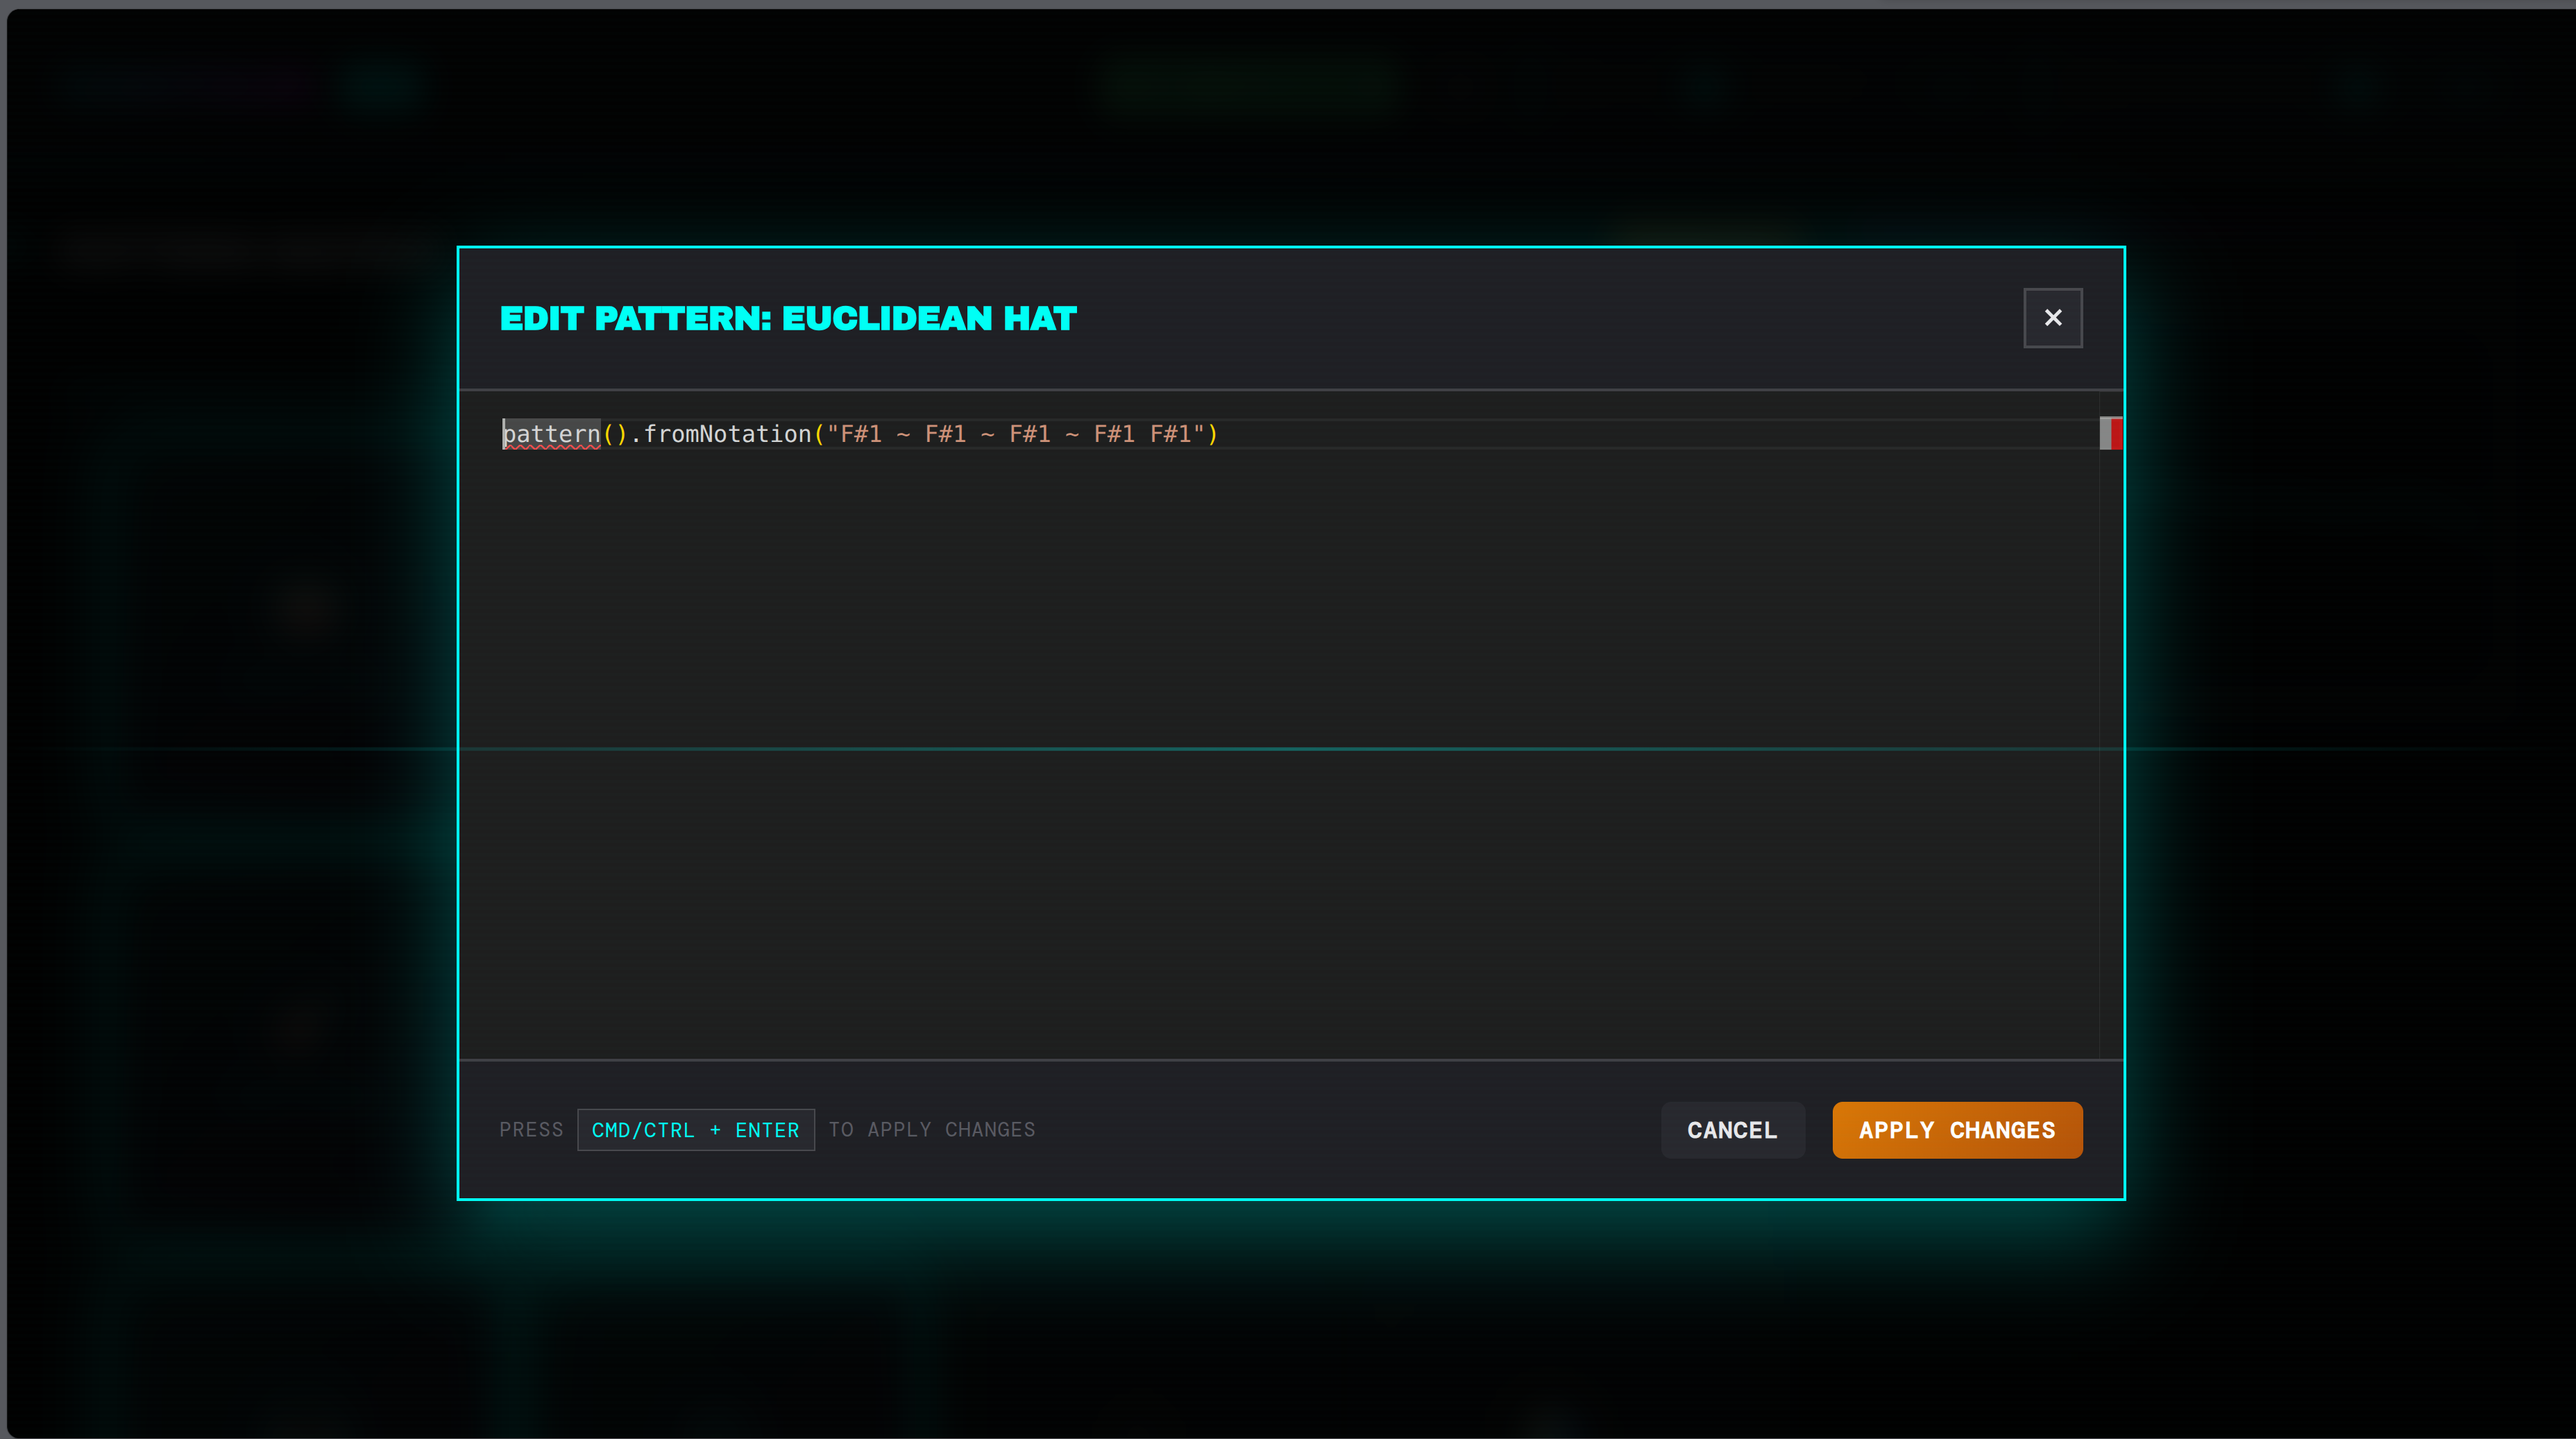
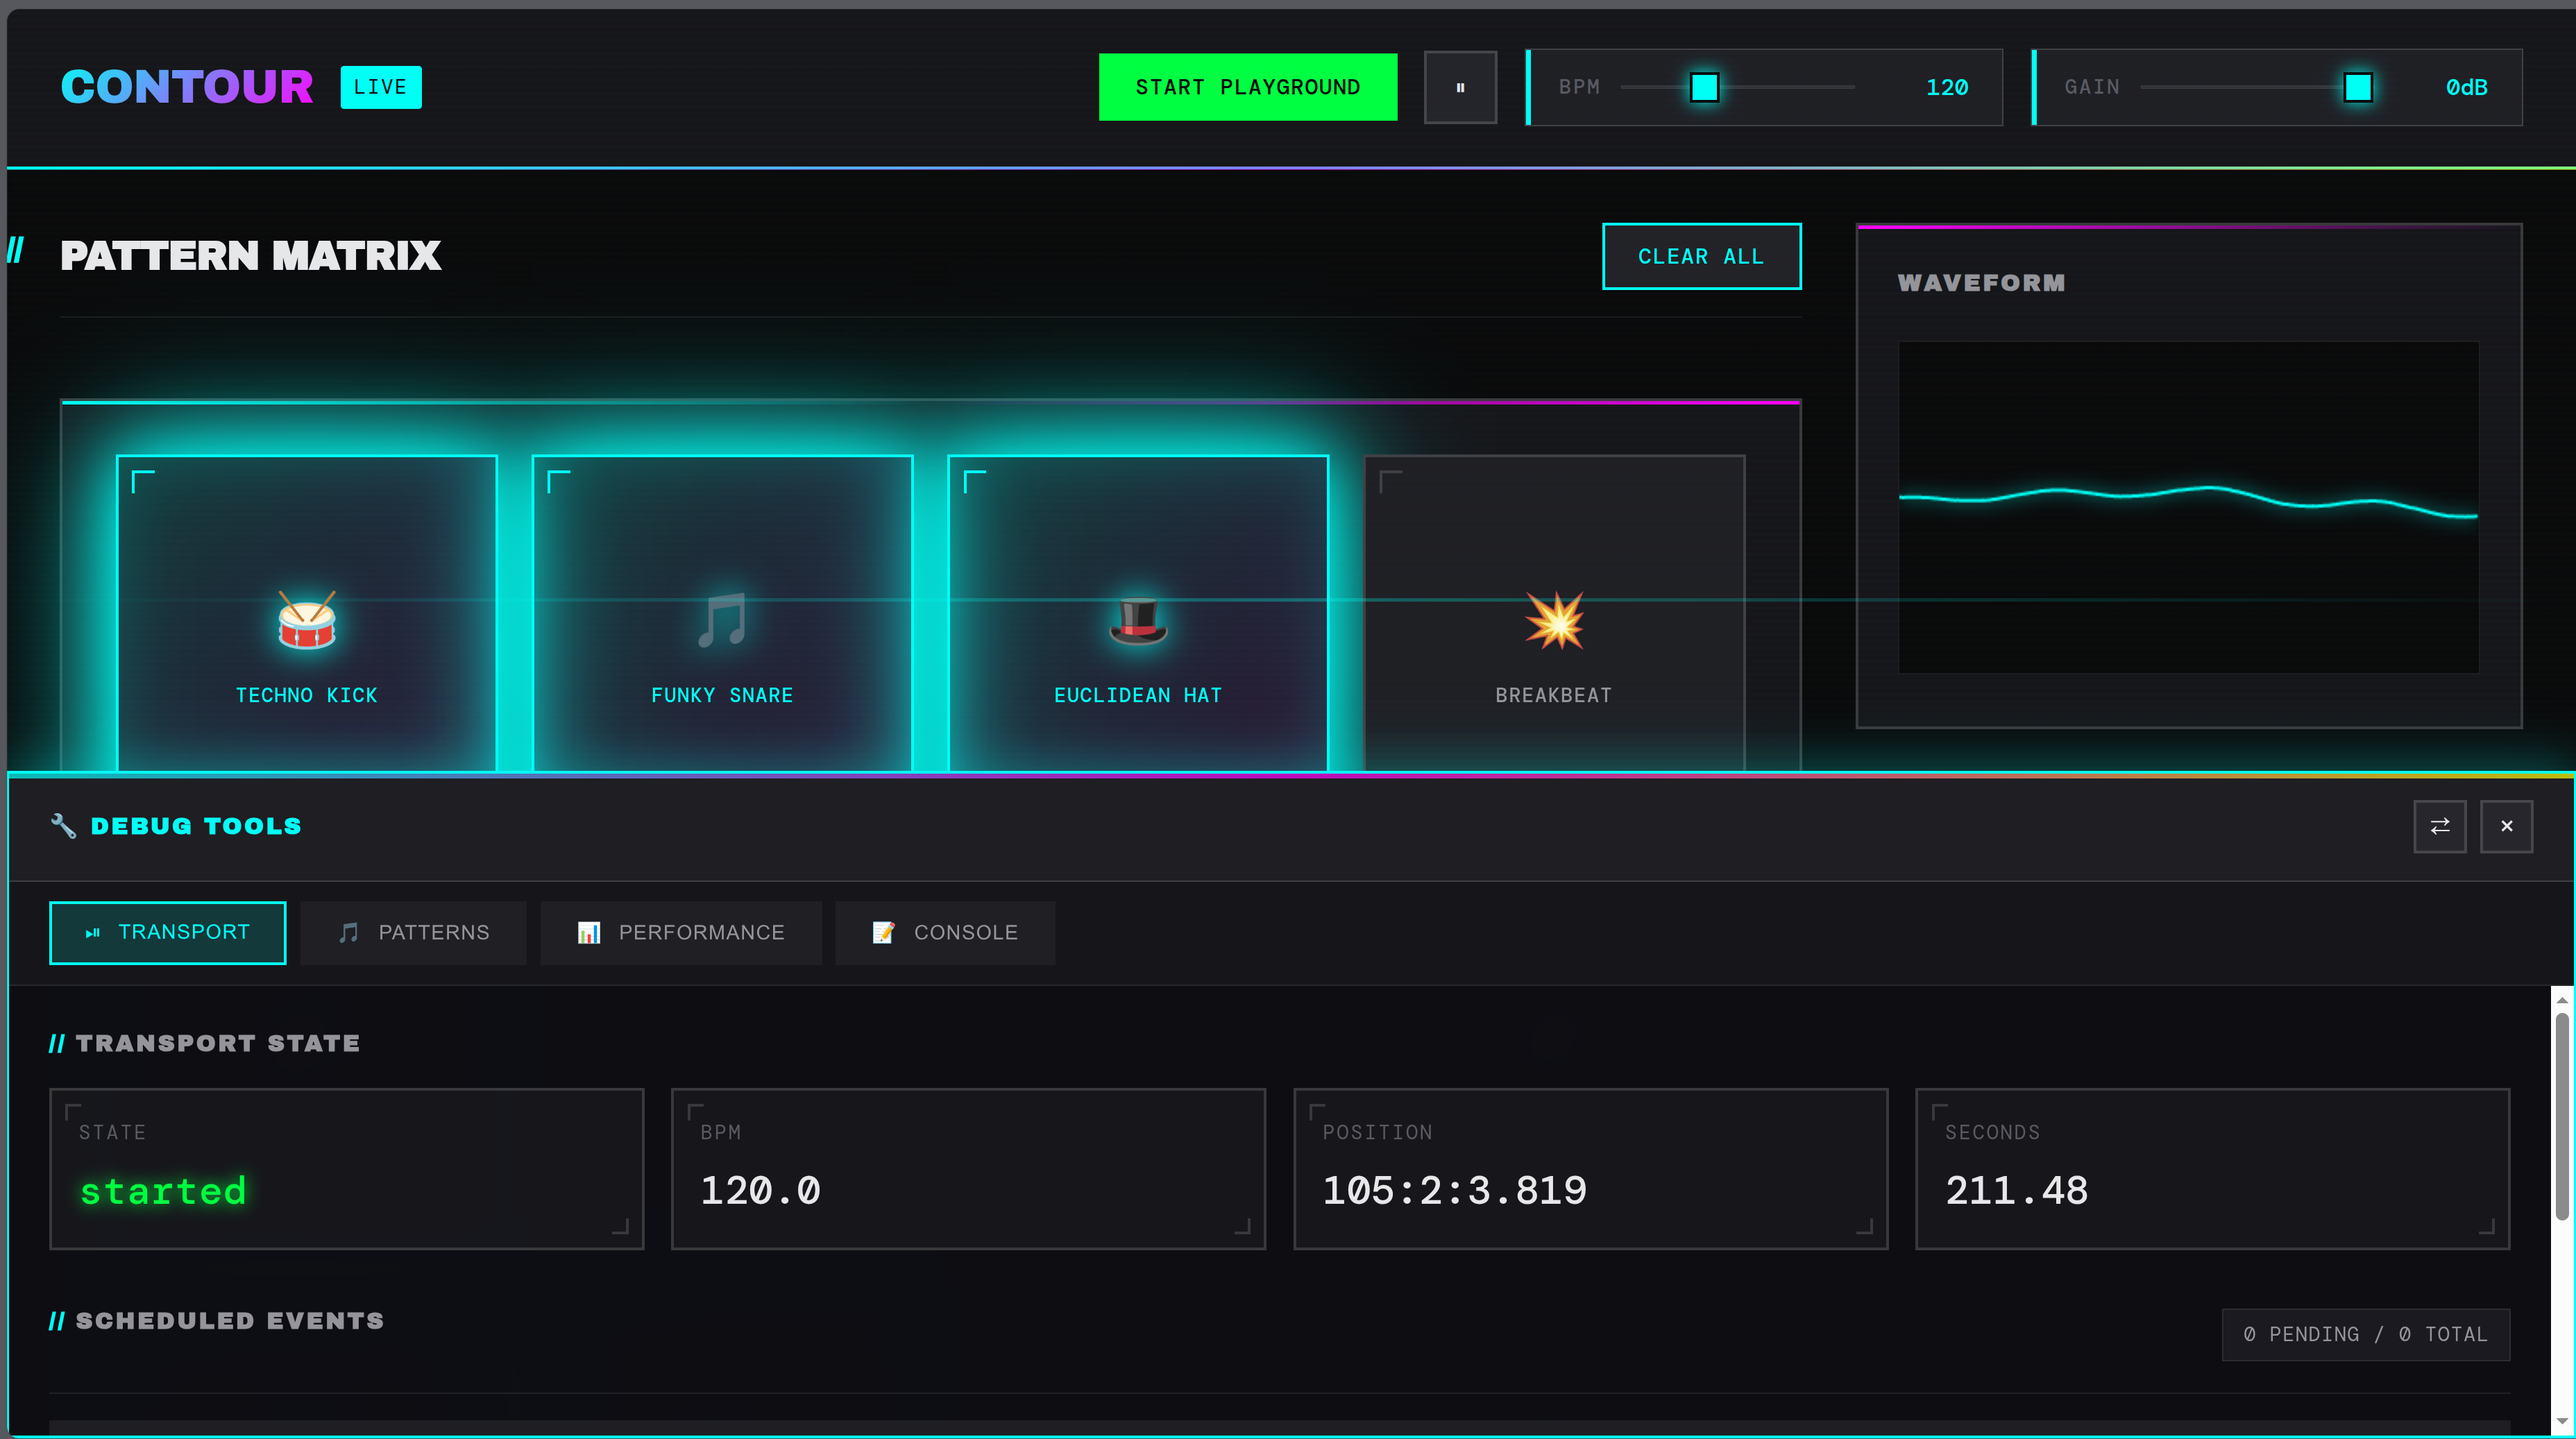
Fix screenshot names: swap debug-panel and pattern-editor
- 02-debug-panel.png now correctly shows the debug panel
- 03-pattern-editor.png now correctly shows the pattern editor
- Update alt text to match correct descriptions

diff --git a/index.html b/index.html
@@ -1063,10 +1063,10 @@ fs.<span class="code-function">writeFileSync</span>(<span class="code-string">'s
               <img src="images/01-playground-grid.png" alt="Contour Live Playground - Interactive 4x4 pattern grid" loading="lazy">
             </div>
             <div class="carousel-slide">
-              <img src="images/02-debug-panel.png" alt="Contour Debug Panel - Transport inspector and pattern analysis" loading="lazy">
+              <img src="images/02-debug-panel.png" alt="Contour Debug Panel - Transport inspector and performance monitoring" loading="lazy">
             </div>
             <div class="carousel-slide">
-              <img src="images/03-pattern-editor.png" alt="Contour Pattern Editor - Live coding interface" loading="lazy">
+              <img src="images/03-pattern-editor.png" alt="Contour Pattern Editor - Monaco-based live coding interface" loading="lazy">
             </div>
           </div>
         </div>
